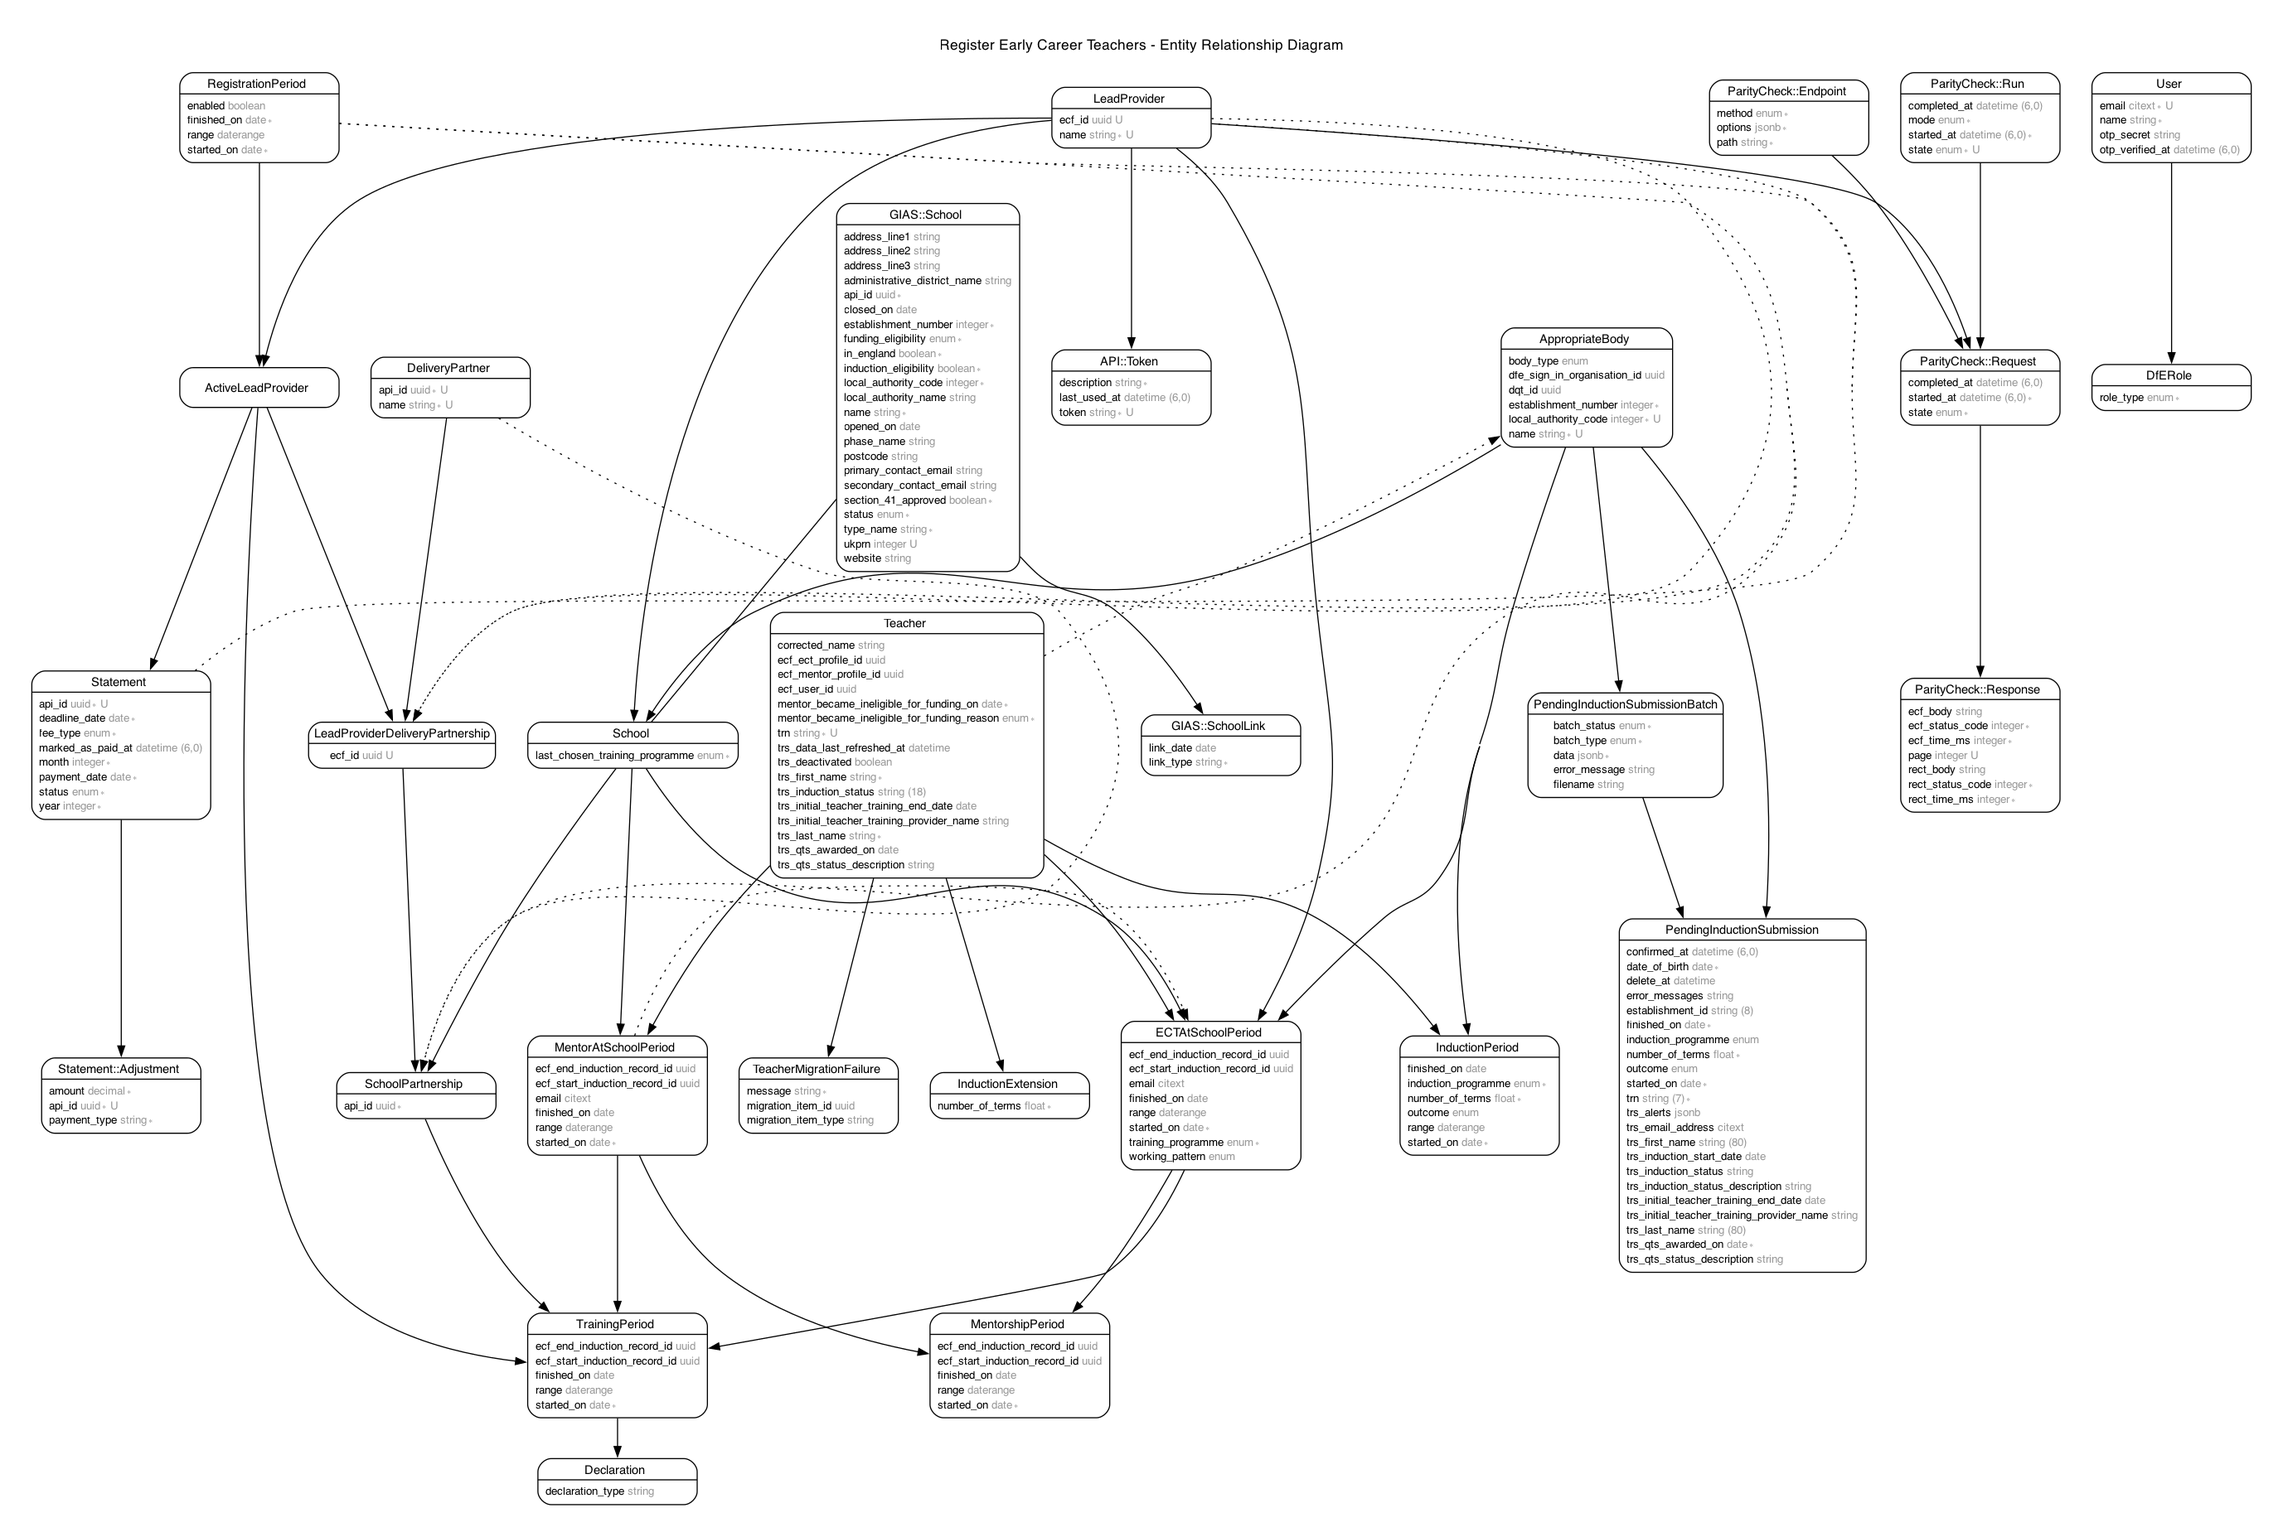
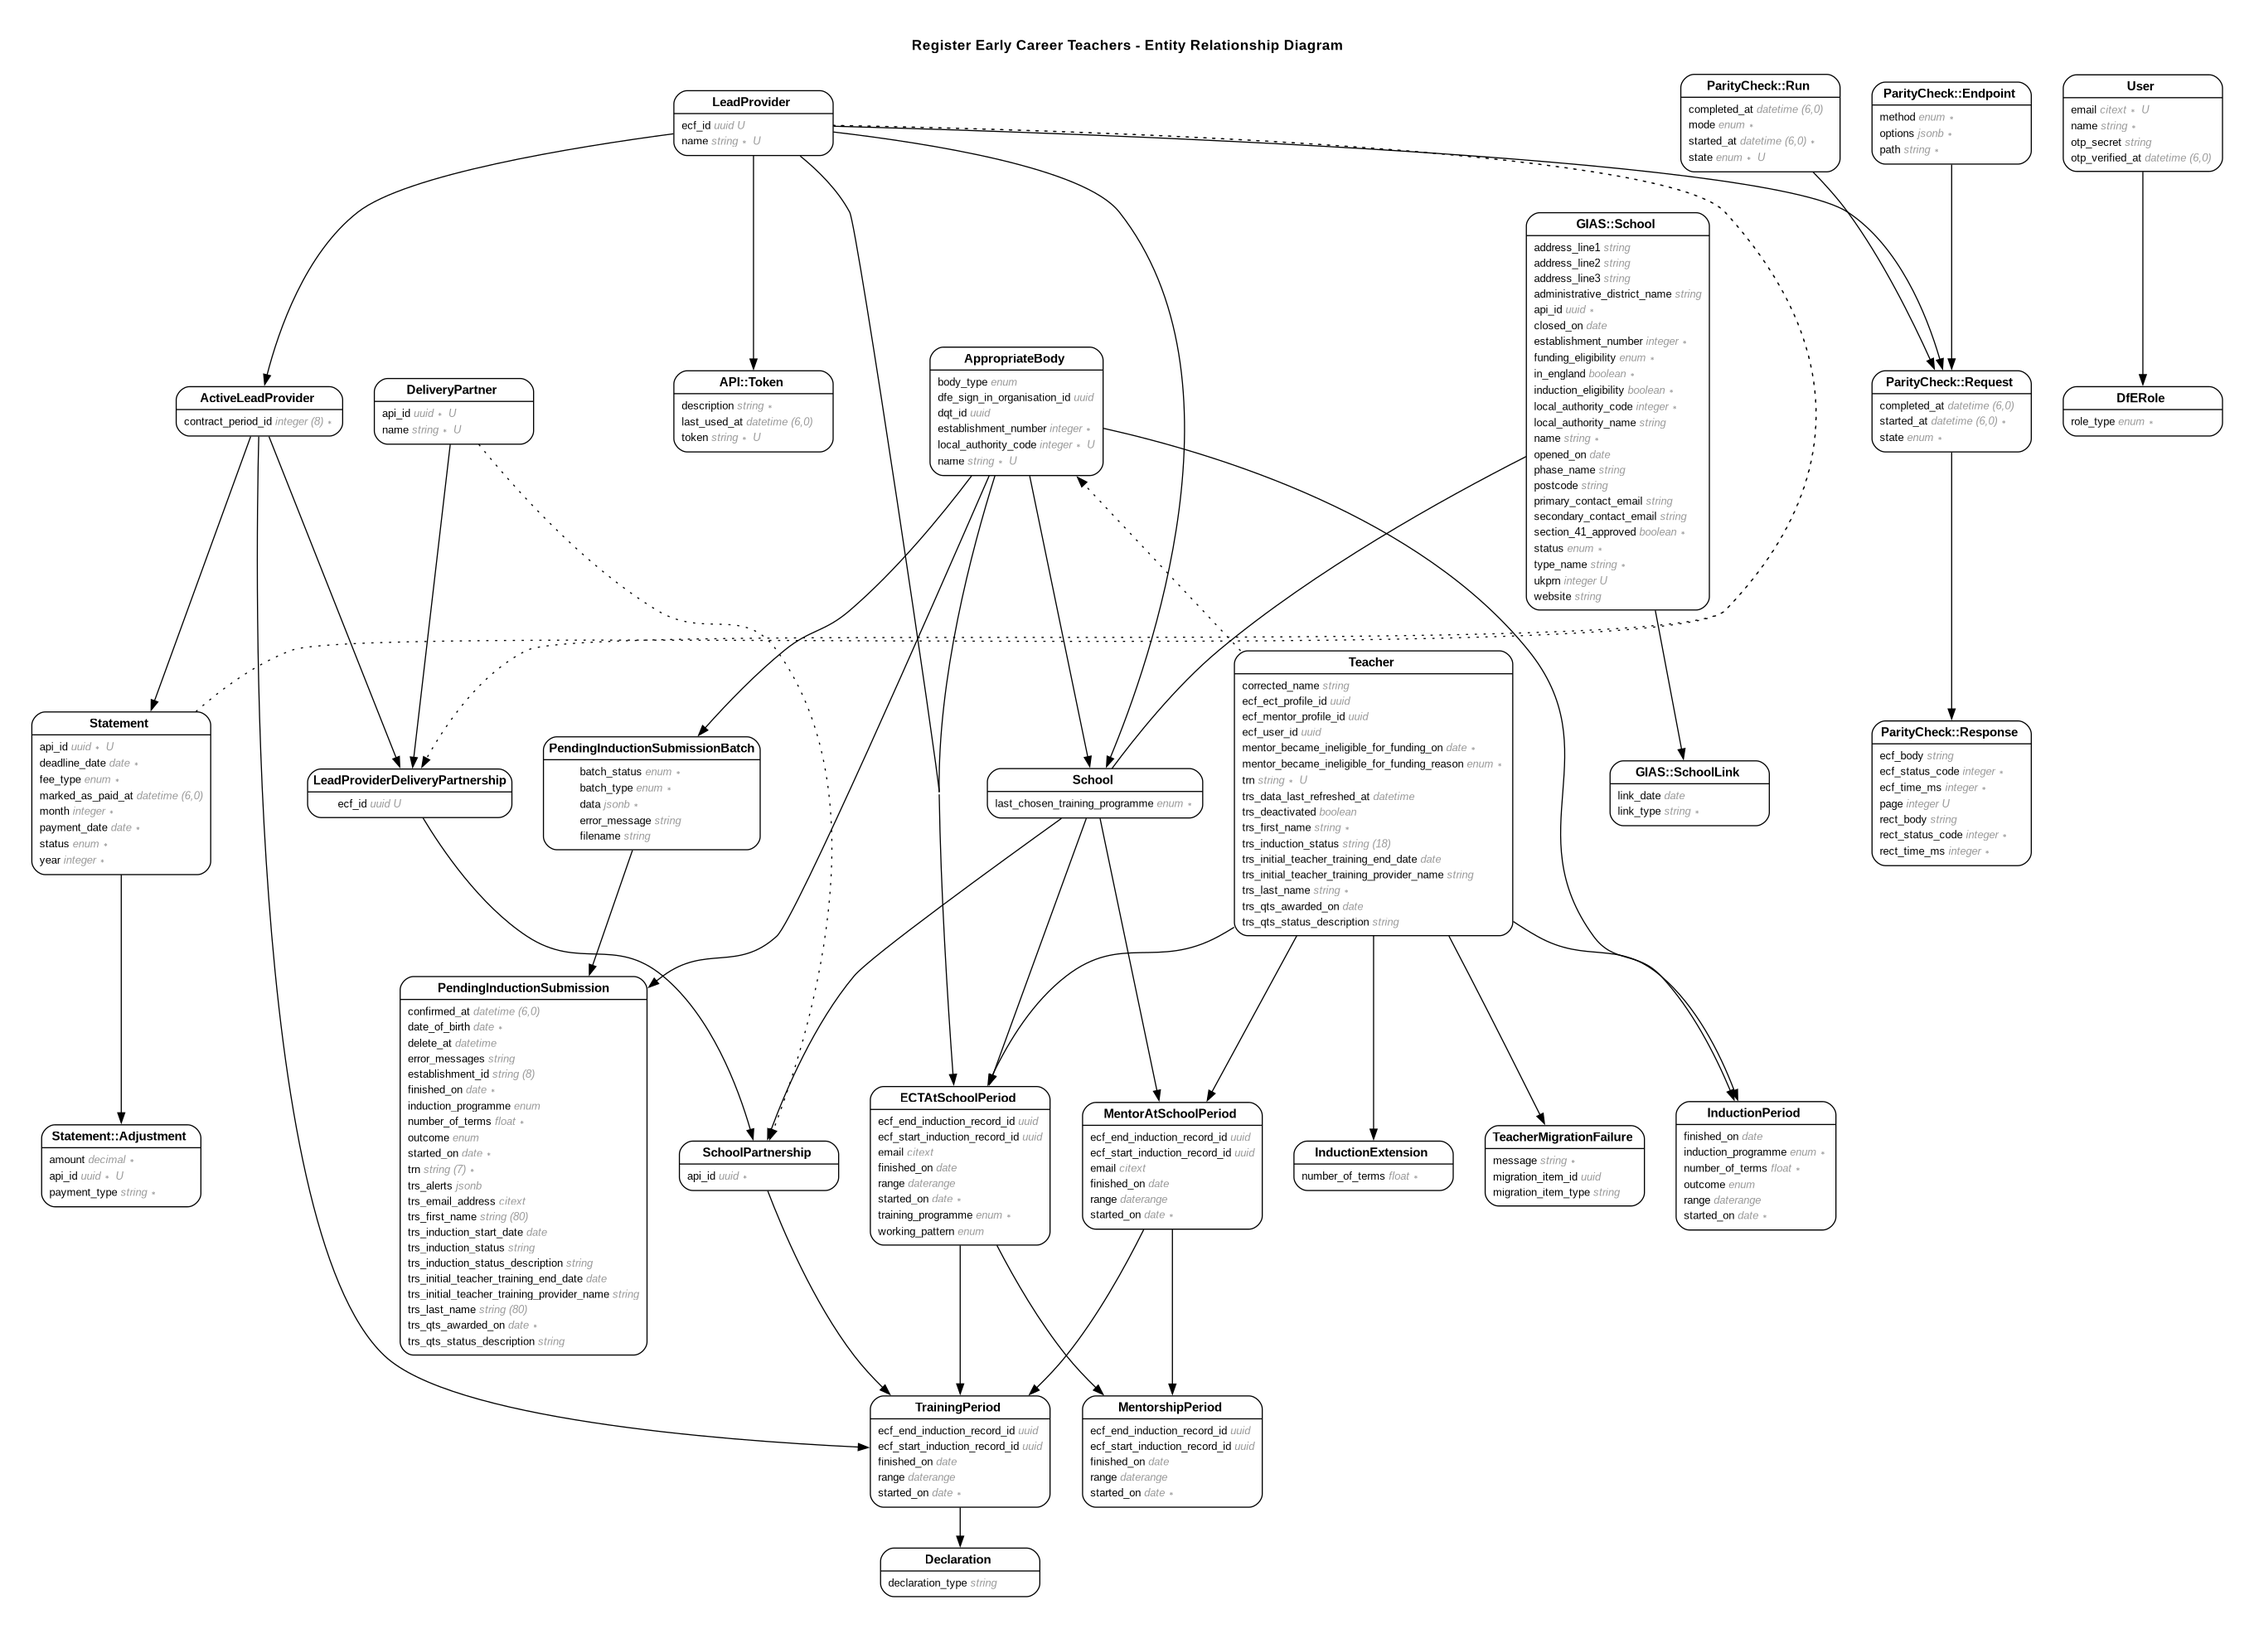
Rename registration_periods to contract_periods

diff --git a/db/schema.rb b/db/schema.rb
@@ -10,7 +10,7 @@
 #
 # It's strongly recommended that you check this file into your version control system.
 
-ActiveRecord::Schema[8.0].define(version: 2025_06_25_124419) do
+ActiveRecord::Schema[8.0].define(version: 2025_07_01_083912) do
   # These are extensions that must be enabled in order to support this database
   enable_extension "citext"
   enable_extension "pg_catalog.plpgsql"
@@ -40,12 +40,12 @@ ActiveRecord::Schema[8.0].define(version: 2025_06_25_124419) do
 
   create_table "active_lead_providers", force: :cascade do |t|
     t.bigint "lead_provider_id", null: false
-    t.bigint "registration_period_id", null: false
+    t.bigint "contract_period_id", null: false
     t.datetime "created_at", null: false
     t.datetime "updated_at", null: false
-    t.index ["lead_provider_id", "registration_period_id"], name: "idx_on_lead_provider_id_registration_period_id_1c10f35875", unique: true
+    t.index ["contract_period_id"], name: "index_active_lead_providers_on_contract_period_id"
+    t.index ["lead_provider_id", "contract_period_id"], name: "idx_on_lead_provider_id_contract_period_id_0083722692", unique: true
     t.index ["lead_provider_id"], name: "index_active_lead_providers_on_lead_provider_id"
-    t.index ["registration_period_id"], name: "index_active_lead_providers_on_registration_period_id"
   end
 
   create_table "api_tokens", force: :cascade do |t|
@@ -125,6 +125,16 @@ ActiveRecord::Schema[8.0].define(version: 2025_06_25_124419) do
     t.datetime "created_at", null: false
     t.datetime "updated_at", null: false
     t.index ["creator_id"], name: "index_blazer_queries_on_creator_id"
+  end
+
+  create_table "contract_periods", primary_key: "year", id: :serial, force: :cascade do |t|
+    t.datetime "created_at", null: false
+    t.datetime "updated_at", null: false
+    t.date "started_on"
+    t.date "finished_on"
+    t.boolean "enabled", default: false
+    t.virtual "range", type: :daterange, as: "daterange(started_on, finished_on)", stored: true
+    t.index ["year"], name: "index_contract_periods_on_year", unique: true
   end
 
   create_table "data_migrations", force: :cascade do |t|
@@ -460,16 +470,6 @@ ActiveRecord::Schema[8.0].define(version: 2025_06_25_124419) do
     t.index ["trn"], name: "index_pending_induction_submissions_on_trn"
   end
 
-  create_table "registration_periods", primary_key: "year", id: :serial, force: :cascade do |t|
-    t.datetime "created_at", null: false
-    t.datetime "updated_at", null: false
-    t.date "started_on"
-    t.date "finished_on"
-    t.boolean "enabled", default: false
-    t.virtual "range", type: :daterange, as: "daterange(started_on, finished_on)", stored: true
-    t.index ["year"], name: "index_registration_periods_on_year", unique: true
-  end
-
   create_table "school_partnerships", force: :cascade do |t|
     t.datetime "created_at", null: false
     t.datetime "updated_at", null: false
@@ -706,8 +706,8 @@ ActiveRecord::Schema[8.0].define(version: 2025_06_25_124419) do
     t.index ["email"], name: "index_users_on_email", unique: true
   end
 
+  add_foreign_key "active_lead_providers", "contract_periods", primary_key: "year"
   add_foreign_key "active_lead_providers", "lead_providers"
-  add_foreign_key "active_lead_providers", "registration_periods", primary_key: "year"
   add_foreign_key "dfe_roles", "users"
   add_foreign_key "ect_at_school_periods", "appropriate_bodies", column: "school_reported_appropriate_body_id"
   add_foreign_key "ect_at_school_periods", "lead_providers"

diff --git a/db/migrate/20250701083912_rename_registration_periods_to_contract_periods.rb b/db/migrate/20250701083912_rename_registration_periods_to_contract_periods.rb
@@ -1,0 +1,6 @@
+class RenameRegistrationPeriodsToContractPeriods < ActiveRecord::Migration[8.0]
+  def change
+    rename_table :registration_periods, :contract_periods
+    rename_column :active_lead_providers, :registration_period_id, :contract_period_id
+  end
+end
